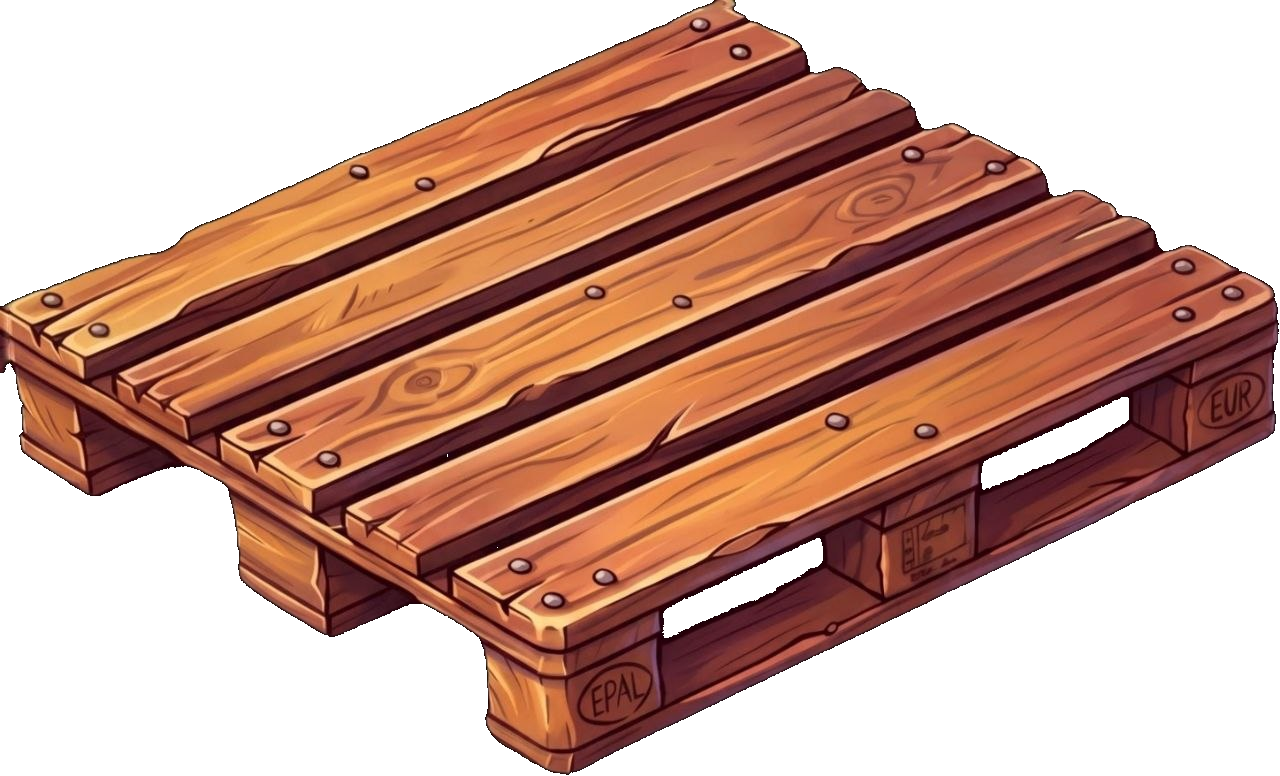
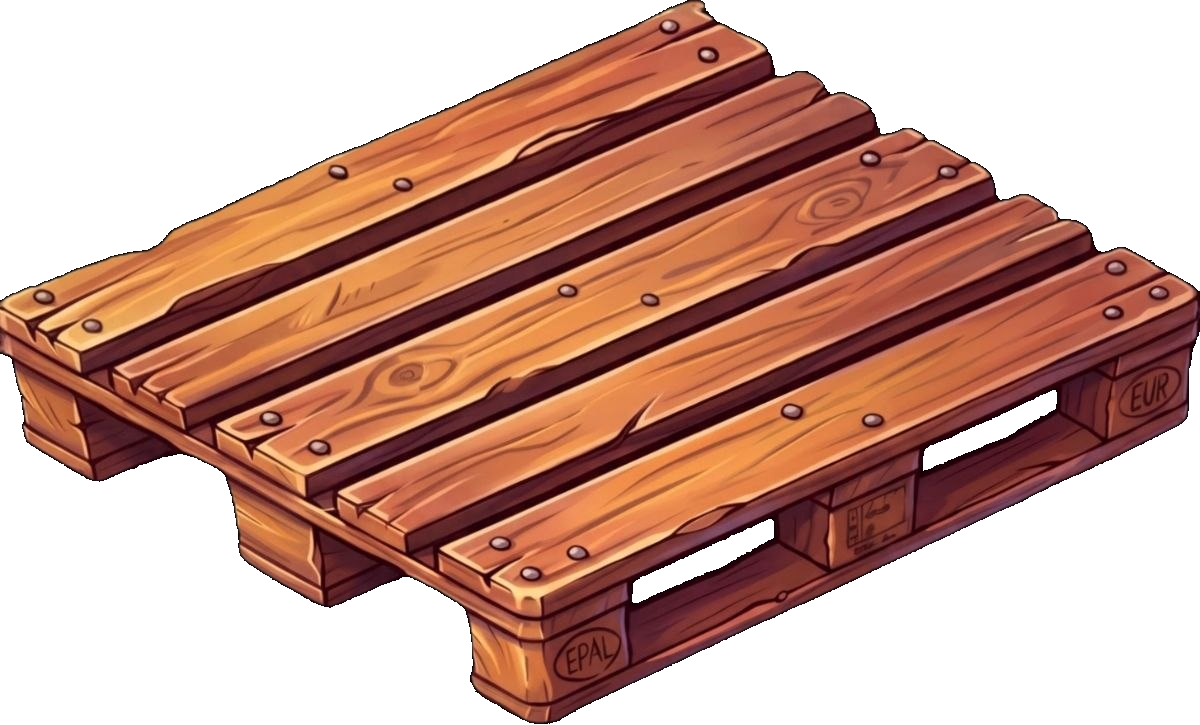
Replace pallet sprite with latest art (v187).

diff --git a/02-sklad/index.html b/02-sklad/index.html
@@ -8,9 +8,9 @@
     <title>Склад</title>
     <meta name="theme-color" content="#14110d" />
     <meta name="apple-mobile-web-app-capable" content="yes" />
-    <link rel="manifest" href="manifest.json?v=186" />
+    <link rel="manifest" href="manifest.json?v=187" />
     <link rel="icon" href="../icon.svg" type="image/svg+xml" />
-    <link rel="stylesheet" href="style.css?v=186" />
+    <link rel="stylesheet" href="style.css?v=187" />
   </head>
   <body>
     <div class="scene" aria-hidden="true">
@@ -216,6 +216,6 @@
       </div>
     </div>
 
-    <script src="game.js?v=186"></script>
+    <script src="game.js?v=187"></script>
   </body>
 </html>

diff --git a/02-sklad/game.js b/02-sklad/game.js
@@ -1119,8 +1119,8 @@ function palWood(name) {
   );
 }
 
-const EMPTY_PAL = "art/pal-empty.png?v=186";
-const YARD_PIC = "art/yard.jpg?v=186";
+const EMPTY_PAL = "art/pal-empty.png?v=187";
+const YARD_PIC = "art/yard.jpg?v=187";
 const ART_URLS = [
   YARD_PIC,
   EMPTY_PAL,

diff --git a/02-sklad/style.css b/02-sklad/style.css
@@ -4327,7 +4327,7 @@ body.iso-yard .inside.yard-locked {
 
 body.iso-yard .inside-pic {
   background:
-    url("art/yard.jpg?v=186") center center / 100% 100% no-repeat,
+    url("art/yard.jpg?v=187") center center / 100% 100% no-repeat,
     #c4b48c;
 }
 
